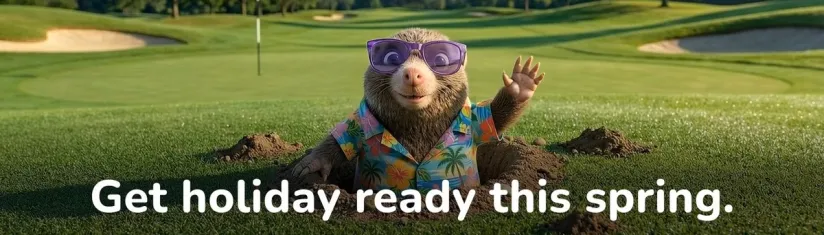
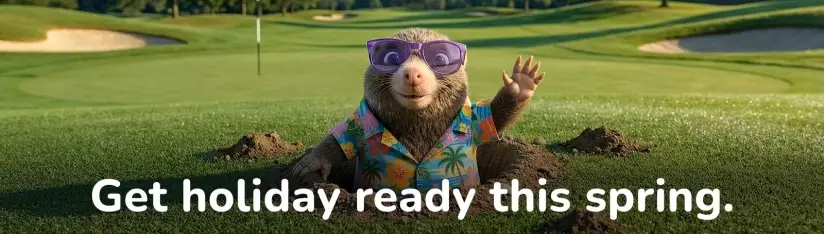
Lighthouse + mobile scroll fixes
Performance:
- Recompress 824.webp q80→q68: 40 KB → 31 KB (saves 9 KB on mobile LCP)
- Minify inline airport data: strip comments + collapse whitespace (~3.5 KB saved)

UX:
- Shrink rc-x (remove chip button) back to .65rem — distinct from label text

Mobile horizontal scroll (iOS Safari):
- Add overflow-x:hidden to .container (iOS ignores html/body overflow in some cases)
- Drop cal-dow letter-spacing and reduce font .75rem→.68rem so 7-col calendar fits on 375px screens
- Add overflow-wrap:break-word to .rr-body/.rr-val so long date strings wrap in review rows

diff --git a/index.html b/index.html
@@ -77,7 +77,7 @@
         }
 
         /* ── Container ── */
-        .container { max-width: 620px; width: 100%; margin: 0 auto; }
+        .container { max-width: 620px; width: 100%; margin: 0 auto; overflow-x: hidden; }
 
         /* ── Hero image — full viewport width between header and steps ── */
         .hero-wrap { width: 100%; line-height: 0; }
@@ -155,7 +155,7 @@
         .rc-code { font-size: .9rem; font-weight: 800; color: var(--purple); }
         .rc-name { font-size: .85rem; font-weight: 400; color: var(--text); }
         .rc-x {
-            font-size: .85rem; color: var(--muted); padding: 2px 6px;
+            font-size: .65rem; color: var(--muted); padding: 2px 6px;
             border-radius: 10px; line-height: 1; cursor: pointer;
             background: none; border: none; font-family: inherit;
             -webkit-tap-highlight-color: transparent;
@@ -205,8 +205,8 @@
         }
         .cal-grid { display: grid; grid-template-columns: repeat(7, 1fr); gap: 2px; }
         .cal-dow {
-            font-size: .75rem; font-weight: 700; text-align: center; color: var(--muted);
-            padding: .3rem 0; text-transform: uppercase; letter-spacing: .04em;
+            font-size: .68rem; font-weight: 700; text-align: center; color: var(--muted);
+            padding: .3rem 0; text-transform: uppercase;
         }
         .cal-day {
             min-height: 40px; display: flex; align-items: center; justify-content: center;
@@ -390,9 +390,9 @@
         .review-row { display: flex; align-items: center; padding: .875rem 0; border-bottom: 1px solid #f0f4f8; }
         .review-row:last-child { border-bottom: none; }
         .rr-icon { font-size: 1rem; margin-right: .75rem; flex-shrink: 0; }
-        .rr-body { flex: 1; min-width: 0; }
+        .rr-body { flex: 1; min-width: 0; overflow-wrap: break-word; word-break: break-word; }
         .rr-lbl  { font-size: .82rem; color: var(--muted); }
-        .rr-val  { font-size: .95rem; font-weight: 600; color: var(--text); margin-top: .1rem; }
+        .rr-val  { font-size: .95rem; font-weight: 600; color: var(--text); margin-top: .1rem; overflow-wrap: break-word; }
         .rr-flight-note { font-size: .82rem; color: var(--muted); margin-top: .25rem; }
         .rr-edit { background: none; border: none; color: var(--muted); cursor: pointer; padding: .375rem; border-radius: 5px; font-size: .95rem; transition: background .12s; flex-shrink: 0; }
         .rr-edit:hover { background: #f0f4f8; color: var(--text); }
@@ -536,193 +536,162 @@
 </main>
 
 <script>
-// ─── Airport data ──────────────────────────────────────────────────────────────
-// short = step-1 label (friendly, no code)
-// full  = used in wizard context, review & summary (official name, matching HX)
 const POPULAR = [
-    { code:'LHR', short:'Heathrow',             full:'London Heathrow Airport',                lat:51.4706, lon:-0.4619 },
-    { code:'LGW', short:'Gatwick',              full:'London Gatwick Airport',                 lat:51.1537, lon:-0.1821 },
-    { code:'MAN', short:'Manchester',           full:'Manchester Airport',                     lat:53.3537, lon:-2.2750 },
-    { code:'STN', short:'Stansted',             full:'London Stansted Airport',                lat:51.8850, lon: 0.2350 },
-    { code:'LTN', short:'Luton',               full:'London Luton Airport',                   lat:51.8747, lon:-0.3683 },
-    { code:'BHX', short:'Birmingham',           full:'Birmingham Airport',                     lat:52.4539, lon:-1.7480 },
-    { code:'EDI', short:'Edinburgh',            full:'Edinburgh Airport',                      lat:55.9500, lon:-3.3725 },
-    { code:'GLA', short:'Glasgow International',full:'Glasgow International Airport',          lat:55.8719, lon:-4.4330 },
+{ code:'LHR', short:'Heathrow', full:'London Heathrow Airport', lat:51.4706, lon:-0.4619 },
+{ code:'LGW', short:'Gatwick', full:'London Gatwick Airport', lat:51.1537, lon:-0.1821 },
+{ code:'MAN', short:'Manchester', full:'Manchester Airport', lat:53.3537, lon:-2.2750 },
+{ code:'STN', short:'Stansted', full:'London Stansted Airport', lat:51.8850, lon: 0.2350 },
+{ code:'LTN', short:'Luton', full:'London Luton Airport', lat:51.8747, lon:-0.3683 },
+{ code:'BHX', short:'Birmingham', full:'Birmingham Airport', lat:52.4539, lon:-1.7480 },
+{ code:'EDI', short:'Edinburgh', full:'Edinburgh Airport', lat:55.9500, lon:-3.3725 },
+{ code:'GLA', short:'Glasgow International',full:'Glasgow International Airport', lat:55.8719, lon:-4.4330 },
 ];
 const OTHERS = [
-    { code:'ABZ', short:'Aberdeen',             full:'Aberdeen Airport',                       lat:57.2019, lon:-2.1978 },
-    { code:'BHD', short:'Belfast City',         full:'Belfast City Airport (George Best)',     lat:54.6175, lon:-5.8725 },
-    { code:'BFS', short:'Belfast International',full:'Belfast International Airport',          lat:54.6575, lon:-6.2158 },
-    { code:'BOH', short:'Bournemouth',          full:'Bournemouth Airport',                    lat:50.7800, lon:-1.8425 },
-    { code:'BRS', short:'Bristol',              full:'Bristol Airport',                        lat:51.3827, lon:-2.7191 },
-    { code:'CWL', short:'Cardiff',              full:'Cardiff Airport',                        lat:51.3967, lon:-3.3433 },
-    { code:'DSA', short:'Doncaster Sheffield',  full:'Doncaster-Sheffield Airport (Robin Hood)',lat:53.4805, lon:-1.0106 },
-    { code:'DUB', short:'Dublin',               full:'Dublin Airport',                         lat:53.4213, lon:-6.2701 },
-    { code:'EMA', short:'East Midlands',        full:'East Midlands Airport',                  lat:52.8311, lon:-1.3281 },
-    { code:'EXT', short:'Exeter',               full:'Exeter Airport',                         lat:50.7344, lon:-3.4139 },
-    { code:'PIK', short:'Glasgow Prestwick',    full:'Glasgow Prestwick Airport',              lat:55.5094, lon:-4.5869 },
-    { code:'HUY', short:'Humberside',           full:'Humberside Airport',                     lat:53.5744, lon:-0.3508 },
-    { code:'LBA', short:'Leeds Bradford',       full:'Leeds Bradford Airport',                 lat:53.8659, lon:-1.6606 },
-    { code:'LPL', short:'Liverpool',            full:'Liverpool John Lennon Airport',          lat:53.3336, lon:-2.8497 },
-    { code:'LCY', short:'London City',          full:'London City Airport',                    lat:51.5048, lon:-0.0495 },
-    { code:'NCL', short:'Newcastle',            full:'Newcastle Airport',                      lat:55.0375, lon:-1.6917 },
-    { code:'NWI', short:'Norwich',              full:'Norwich Airport',                        lat:52.6758, lon: 1.2828 },
-    { code:'SNN', short:'Shannon',              full:'Shannon Airport',                        lat:52.7020, lon:-8.9248 },
-    { code:'SOU', short:'Southampton',          full:'Southampton Airport',                    lat:50.9503, lon:-1.3569 },
-    { code:'SEN', short:'Southend',             full:'London Southend Airport',                lat:51.5714, lon: 0.6956 },
-    { code:'INV', short:'Inverness',            full:'Inverness Airport',                      lat:57.5425, lon:-4.0475 },
-    { code:'MME', short:'Teesside International',full:'Teesside International Airport',        lat:54.5092, lon:-1.4294 },
-    { code:'NQY', short:'Newquay Cornwall',     full:'Newquay Cornwall Airport',               lat:50.4406, lon:-4.9955 },
+{ code:'ABZ', short:'Aberdeen', full:'Aberdeen Airport', lat:57.2019, lon:-2.1978 },
+{ code:'BHD', short:'Belfast City', full:'Belfast City Airport (George Best)', lat:54.6175, lon:-5.8725 },
+{ code:'BFS', short:'Belfast International',full:'Belfast International Airport', lat:54.6575, lon:-6.2158 },
+{ code:'BOH', short:'Bournemouth', full:'Bournemouth Airport', lat:50.7800, lon:-1.8425 },
+{ code:'BRS', short:'Bristol', full:'Bristol Airport', lat:51.3827, lon:-2.7191 },
+{ code:'CWL', short:'Cardiff', full:'Cardiff Airport', lat:51.3967, lon:-3.3433 },
+{ code:'DSA', short:'Doncaster Sheffield', full:'Doncaster-Sheffield Airport (Robin Hood)',lat:53.4805, lon:-1.0106 },
+{ code:'DUB', short:'Dublin', full:'Dublin Airport', lat:53.4213, lon:-6.2701 },
+{ code:'EMA', short:'East Midlands', full:'East Midlands Airport', lat:52.8311, lon:-1.3281 },
+{ code:'EXT', short:'Exeter', full:'Exeter Airport', lat:50.7344, lon:-3.4139 },
+{ code:'PIK', short:'Glasgow Prestwick', full:'Glasgow Prestwick Airport', lat:55.5094, lon:-4.5869 },
+{ code:'HUY', short:'Humberside', full:'Humberside Airport', lat:53.5744, lon:-0.3508 },
+{ code:'LBA', short:'Leeds Bradford', full:'Leeds Bradford Airport', lat:53.8659, lon:-1.6606 },
+{ code:'LPL', short:'Liverpool', full:'Liverpool John Lennon Airport', lat:53.3336, lon:-2.8497 },
+{ code:'LCY', short:'London City', full:'London City Airport', lat:51.5048, lon:-0.0495 },
+{ code:'NCL', short:'Newcastle', full:'Newcastle Airport', lat:55.0375, lon:-1.6917 },
+{ code:'NWI', short:'Norwich', full:'Norwich Airport', lat:52.6758, lon: 1.2828 },
+{ code:'SNN', short:'Shannon', full:'Shannon Airport', lat:52.7020, lon:-8.9248 },
+{ code:'SOU', short:'Southampton', full:'Southampton Airport', lat:50.9503, lon:-1.3569 },
+{ code:'SEN', short:'Southend', full:'London Southend Airport', lat:51.5714, lon: 0.6956 },
+{ code:'INV', short:'Inverness', full:'Inverness Airport', lat:57.5425, lon:-4.0475 },
+{ code:'MME', short:'Teesside International',full:'Teesside International Airport', lat:54.5092, lon:-1.4294 },
+{ code:'NQY', short:'Newquay Cornwall', full:'Newquay Cornwall Airport', lat:50.4406, lon:-4.9955 },
 ];
 const ALL = POPULAR.concat(OTHERS);
-
-// ─── Flight API ────────────────────────────────────────────────────────────────
-// Destination alias map: common holiday resort names → searchable city/airport.
-// Customers type where they're going, not the IATA code.
 const DEST_ALIASES = {
-    'benidorm':'alicante', 'costa blanca':'alicante',
-    'magaluf':'palma', 'alcudia':'palma', 'mallorca':'palma', 'majorca':'palma',
-    'zante':'zakynthos', 'laganas':'zakynthos',
-    'kavos':'corfu', 'sidari':'corfu',
-    'malia':'heraklion', 'hersonissos':'heraklion', 'crete':'heraklion',
-    'mykonos town':'mykonos',
-    'skiathos town':'skiathos',
-    'kefalonia':'cephalonia',
-    'gran canaria':'las palmas',
-    'tenerife south':'tenerife', 'tenerife norte':'tenerife',
-    'preveza':'aktion', 'lefkada':'aktion',
-    'turin':'turin',  // identity — just ensures "tur" suggestions rank it
+'benidorm':'alicante', 'costa blanca':'alicante',
+'magaluf':'palma', 'alcudia':'palma', 'mallorca':'palma', 'majorca':'palma',
+'zante':'zakynthos', 'laganas':'zakynthos',
+'kavos':'corfu', 'sidari':'corfu',
+'malia':'heraklion', 'hersonissos':'heraklion', 'crete':'heraklion',
+'mykonos town':'mykonos',
+'skiathos town':'skiathos',
+'kefalonia':'cephalonia',
+'gran canaria':'las palmas',
+'tenerife south':'tenerife', 'tenerife norte':'tenerife',
+'preveza':'aktion', 'lefkada':'aktion',
+'turin':'turin', // identity — just ensures "tur" suggestions rank it
 };
-
-// Airline ICAO code → airline name as it appears in the API response.
-// The HX API returns IATA carrier codes (U2, BA…) not ICAO (EZY, BAW…),
-// so ICAO searches would otherwise return nothing.
 const AIRLINE_ALIASES = {
-    'ezy':'easyjet',  'ejs':'easyjet',
-    'ryr':'ryanair',  'fr':'ryanair',
-    'baw':'british airways',
-    'vir':'virgin atlantic',  'vs':'virgin atlantic',
-    'thy':'turkish airlines',
-    'dlh':'lufthansa',
-    'afr':'air france',
-    'klm':'klm',
-    'ibk':'iberia express',
-    'vle':'vueling',
-    'jet2':'jet2.com',
-    'tom':'tui',  'tfl':'tui',
-    'tcx':'tui',  'tui':'tui',
-    'wiz':'wizz air',  'wzz':'wizz air',
-    'nax':'norwegian',
-    'aee':'aegean',
-    'ath':'aegean',
+'ezy':'easyjet', 'ejs':'easyjet',
+'ryr':'ryanair', 'fr':'ryanair',
+'baw':'british airways',
+'vir':'virgin atlantic', 'vs':'virgin atlantic',
+'thy':'turkish airlines',
+'dlh':'lufthansa',
+'afr':'air france',
+'klm':'klm',
+'ibk':'iberia express',
+'vle':'vueling',
+'jet2':'jet2.com',
+'tom':'tui', 'tfl':'tui',
+'tcx':'tui', 'tui':'tui',
+'wiz':'wizz air', 'wzz':'wizz air',
+'nax':'norwegian',
+'aee':'aegean',
+'ath':'aegean',
 };
-
-// In-session cache so navigating back/forward doesn't re-fetch
-// Key: "LGW:2026-04-18:out" or "TRN:2026-04-28:in:LGW"
-const _flightCache     = new Map(); // key → Promise<flights[]>
+const _flightCache = new Map(); // key → Promise<flights[]>
 const _flightDataCache = new Map(); // key → flights[] (resolved, survives sessionStorage round-trip)
-
-// opts.destination → return-flight mode (flights arriving at opts.destination)
-// opts.query       → search string forwarded to dock-yard API
 function fetchFlights(airportCode, date, opts = {}) {
-    const { destination = '', query = '' } = opts;
-    const dateStr = fmtISO(date);
-    const mode    = destination ? 'return' : 'outbound';
-    const key     = airportCode + ':' + dateStr + (destination ? ':in:' + destination : ':out') + (query ? ':q:' + query : '');
-    if (_flightCache.has(key)) return _flightCache.get(key);
-
-    const params = new URLSearchParams({ location: airportCode, date: dateStr });
-    if (destination) params.set('destination', destination);
-    if (query)       params.set('query', query);
-
-    const p = fetch('/api/flights?' + params)
-        .then(r => r.ok ? r.json() : Promise.reject(r.status))
-        .then(raw => normaliseFlights(raw, dateStr, mode))
-        .then(flights => { _flightDataCache.set(key, flights); return flights; })
-        .catch(e => { console.warn('[flights] fetch failed', e); return []; });
-    _flightCache.set(key, p);
-    return p;
+const { destination = '', query = '' } = opts;
+const dateStr = fmtISO(date);
+const mode = destination ? 'return' : 'outbound';
+const key = airportCode + ':' + dateStr + (destination ? ':in:' + destination : ':out') + (query ? ':q:' + query : '');
+if (_flightCache.has(key)) return _flightCache.get(key);
+const params = new URLSearchParams({ location: airportCode, date: dateStr });
+if (destination) params.set('destination', destination);
+if (query) params.set('query', query);
+const p = fetch('/api/flights?' + params)
+.then(r => r.ok ? r.json() : Promise.reject(r.status))
+.then(raw => normaliseFlights(raw, dateStr, mode))
+.then(flights => { _flightDataCache.set(key, flights); return flights; })
+.catch(e => { console.warn('[flights] fetch failed', e); return []; });
+_flightCache.set(key, p);
+return p;
 }
-
-// mode: 'outbound' → terminal is at departure airport (LGW)
-//       'return'   → terminal is at arrival airport  (LGW)
 function normaliseFlights(raw, dateStr, mode) {
-    if (!Array.isArray(raw)) return [];
-
-    // Build a reference → carrier name map so codeshares can say "operated by X"
-    const refToCarrier = {};
-    raw.forEach(e => {
-        if (e.flight?.reference && e.flight?.carrier?.name) {
-            refToCarrier[e.flight.reference] = e.flight.carrier.name;
-        }
-    });
-
-    return raw
-        .map(e => {
-            const dep = e.departure || {};
-            const arr = e.arrival   || {};
-            const terminal = mode === 'return' ? (arr.terminal || '') : (dep.terminal || '');
-            const operatedBy = e.info?.is_codeshare && e.info?.codeshare_operator_reference
-                ? refToCarrier[e.info.codeshare_operator_reference] || ''
-                : '';
-            const timeStr  = mode === 'return' ? (arr.time || dep.time || '00:00') : (dep.time || '00:00');
-            const [tH, tM] = timeStr.split(':');
-            return {
-                code:          e.flight?.code || '',
-                reference:     e.flight?.reference || '',
-                airline:       e.flight?.carrier?.name || e.flight?.carrier?.code || '',
-                airlineCode:   e.flight?.carrier?.code || '',
-                carrierIcao:   e.flight?.carrier?.icao || '',
-                flightIcao:    (e.flight?.icao || []).join(' '),
-                matched:       e.flight?.matched || '',
-                typeahead:     e.typeahead || '',
-                dest:          arr.airport || arr.city || '',
-                destCountry:   arr.country || '',
-                destAirport:   arr.airport_iata || '',
-                origin:        dep.airport || dep.city || '',
-                originCountry: dep.country || '',
-                originAirport: dep.airport_iata || '',
-                depHour:       parseInt((dep.time || '00:00').split(':')[0], 10) || 0,
-                depMinute:     parseInt((dep.time || '00:00').split(':')[1], 10) || 0,
-                hour:          parseInt(tH, 10) || 0,
-                minute:        parseInt(tM, 10) || 0,
-                terminal,
-                isCodeshare:   !!e.info?.is_codeshare,
-                operatedBy,
-                tailfin:       e.flight?.carrier?.tailfinImage || e.flight?.carrier?.tail_image || '',
-                departureDate: dateStr,
-                // arrivalDate: next day if arrival time wraps past midnight vs departure
-                arrivalDate: (() => {
-                    const dH = parseInt((dep.time || '00:00').split(':')[0], 10) || 0;
-                    const aH = parseInt(tH, 10) || 0;
-                    const aM = parseInt(tM, 10) || 0;
-                    const dM = parseInt((dep.time || '00:00').split(':')[1], 10) || 0;
-                    const nextDay = (aH * 60 + aM) < (dH * 60 + dM);
-                    if (!nextDay) return dateStr;
-                    const base = parseISO(dateStr);
-                    return fmtISO(new Date(base.getFullYear(), base.getMonth(), base.getDate() + 1));
-                })(),
-                _raw:          e,
-            };
-        })
-        .sort((a, b) => a.hour !== b.hour ? a.hour - b.hour : a.minute - b.minute);
+if (!Array.isArray(raw)) return [];
+const refToCarrier = {};
+raw.forEach(e => {
+if (e.flight?.reference && e.flight?.carrier?.name) {
+refToCarrier[e.flight.reference] = e.flight.carrier.name;
 }
-
-// ─── (old flight templates removed — now using real API) ──────────────────────
-// kept section comment so line-numbers stay stable for editors
-const FLIGHT_TEMPLATES = {
-    LHR:{ al:['BA','VS','AA','EK','LH'],  dests:['New York','Dubai','Los Angeles','Sydney','Singapore','Toronto','Hong Kong','Cape Town','Johannesburg','Mumbai'] },
-    LGW:{ al:['EZY','BA','TOM','FR','DY'],dests:['Málaga','Alicante','Faro','Barcelona','Tenerife','Ibiza','Amsterdam','Geneva','Rome','Lanzarote'] },
-    MAN:{ al:['EZY','TOM','BA','BY','FR'],dests:['Tenerife','Lanzarote','Alicante','Faro','New York','Dubai','Málaga','Barcelona','Majorca','Corfu'] },
-    STN:{ al:['FR','EZY','W6','VY'],      dests:['Dublin','Faro','Wrocław','Barcelona','Rome','Alicante','Málaga','Lisbon','Tenerife','Kraków'] },
-    LTN:{ al:['EZY','W6','TOM'],          dests:['Amsterdam','Alicante','Geneva','Faro','Málaga','Ibiza','Barcelona','Rome','Split','Athens'] },
-    BHX:{ al:['EZY','TOM','BY','FR'],     dests:['Alicante','Faro','Tenerife','Málaga','Ibiza','Majorca','Gran Canaria','Amsterdam','Dubai'] },
-    EDI:{ al:['EZY','FR','BA','LG'],      dests:['Amsterdam','Alicante','Barcelona','Dublin','London','Paris','Faro','Tenerife','New York'] },
-    GLA:{ al:['EZY','FR','BA'],           dests:['London','Dublin','Amsterdam','Alicante','Faro','Tenerife','Lanzarote','Málaga'] },
-    DEFAULT:{ al:['EZY','BA','FR','TOM'], dests:['Amsterdam','Alicante','Faro','Barcelona','Málaga','Tenerife','Dublin','Paris','Rome'] },
+});
+return raw
+.map(e => {
+const dep = e.departure || {};
+const arr = e.arrival || {};
+const terminal = mode === 'return' ? (arr.terminal || '') : (dep.terminal || '');
+const operatedBy = e.info?.is_codeshare && e.info?.codeshare_operator_reference
+? refToCarrier[e.info.codeshare_operator_reference] || ''
+: '';
+const timeStr = mode === 'return' ? (arr.time || dep.time || '00:00') : (dep.time || '00:00');
+const [tH, tM] = timeStr.split(':');
+return {
+code: e.flight?.code || '',
+reference: e.flight?.reference || '',
+airline: e.flight?.carrier?.name || e.flight?.carrier?.code || '',
+airlineCode: e.flight?.carrier?.code || '',
+carrierIcao: e.flight?.carrier?.icao || '',
+flightIcao: (e.flight?.icao || []).join(' '),
+matched: e.flight?.matched || '',
+typeahead: e.typeahead || '',
+dest: arr.airport || arr.city || '',
+destCountry: arr.country || '',
+destAirport: arr.airport_iata || '',
+origin: dep.airport || dep.city || '',
+originCountry: dep.country || '',
+originAirport: dep.airport_iata || '',
+depHour: parseInt((dep.time || '00:00').split(':')[0], 10) || 0,
+depMinute: parseInt((dep.time || '00:00').split(':')[1], 10) || 0,
+hour: parseInt(tH, 10) || 0,
+minute: parseInt(tM, 10) || 0,
+terminal,
+isCodeshare: !!e.info?.is_codeshare,
+operatedBy,
+tailfin: e.flight?.carrier?.tailfinImage || e.flight?.carrier?.tail_image || '',
+departureDate: dateStr,
+arrivalDate: (() => {
+const dH = parseInt((dep.time || '00:00').split(':')[0], 10) || 0;
+const aH = parseInt(tH, 10) || 0;
+const aM = parseInt(tM, 10) || 0;
+const dM = parseInt((dep.time || '00:00').split(':')[1], 10) || 0;
+const nextDay = (aH * 60 + aM) < (dH * 60 + dM);
+if (!nextDay) return dateStr;
+const base = parseISO(dateStr);
+return fmtISO(new Date(base.getFullYear(), base.getMonth(), base.getDate() + 1));
+})(),
+_raw: e,
 };
-
-
+})
+.sort((a, b) => a.hour !== b.hour ? a.hour - b.hour : a.minute - b.minute);
+}
+const FLIGHT_TEMPLATES = {
+LHR:{ al:['BA','VS','AA','EK','LH'], dests:['New York','Dubai','Los Angeles','Sydney','Singapore','Toronto','Hong Kong','Cape Town','Johannesburg','Mumbai'] },
+LGW:{ al:['EZY','BA','TOM','FR','DY'],dests:['Málaga','Alicante','Faro','Barcelona','Tenerife','Ibiza','Amsterdam','Geneva','Rome','Lanzarote'] },
+MAN:{ al:['EZY','TOM','BA','BY','FR'],dests:['Tenerife','Lanzarote','Alicante','Faro','New York','Dubai','Málaga','Barcelona','Majorca','Corfu'] },
+STN:{ al:['FR','EZY','W6','VY'], dests:['Dublin','Faro','Wrocław','Barcelona','Rome','Alicante','Málaga','Lisbon','Tenerife','Kraków'] },
+LTN:{ al:['EZY','W6','TOM'], dests:['Amsterdam','Alicante','Geneva','Faro','Málaga','Ibiza','Barcelona','Rome','Split','Athens'] },
+BHX:{ al:['EZY','TOM','BY','FR'], dests:['Alicante','Faro','Tenerife','Málaga','Ibiza','Majorca','Gran Canaria','Amsterdam','Dubai'] },
+EDI:{ al:['EZY','FR','BA','LG'], dests:['Amsterdam','Alicante','Barcelona','Dublin','London','Paris','Faro','Tenerife','New York'] },
+GLA:{ al:['EZY','FR','BA'], dests:['London','Dublin','Amsterdam','Alicante','Faro','Tenerife','Lanzarote','Málaga'] },
+DEFAULT:{ al:['EZY','BA','FR','TOM'], dests:['Amsterdam','Alicante','Faro','Barcelona','Málaga','Tenerife','Dublin','Paris','Rome'] },
+};
 // ─── State ─────────────────────────────────────────────────────────────────────
 const state = { airport:null, dropoffDate:null, dropoffTime:null, dropoffFlight:null, returnDate:null, returnTime:null, returnFlight:null };
 let currentStep = 1;
